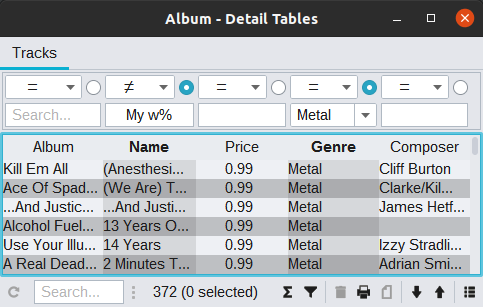
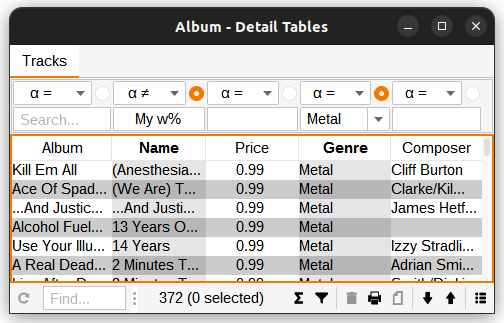
Screenshots updated

diff --git a/demos/manual/src/main/java/is/codion/framework/demos/manual/store/minimal/ui/StoreDemo.java b/demos/manual/src/main/java/is/codion/framework/demos/manual/store/minimal/ui/StoreDemo.java
@@ -15,7 +15,7 @@ import is.codion.swing.framework.model.SwingEntityModel;
 import is.codion.swing.framework.ui.EntityEditPanel;
 import is.codion.swing.framework.ui.EntityPanel;
 
-import com.formdev.flatlaf.FlatDarculaLaf;
+import com.formdev.flatlaf.intellijthemes.materialthemeuilite.FlatMaterialDarkerContrastIJTheme;
 
 import javax.swing.UIManager;
 
@@ -67,7 +67,7 @@ public class StoreDemo {
   }
 
   public static void main(String[] args) throws Exception {
-    UIManager.setLookAndFeel(new FlatDarculaLaf());
+    UIManager.setLookAndFeel(new FlatMaterialDarkerContrastIJTheme());
 
     Database database = new H2DatabaseFactory()
             .createDatabase("jdbc:h2:mem:h2db",
